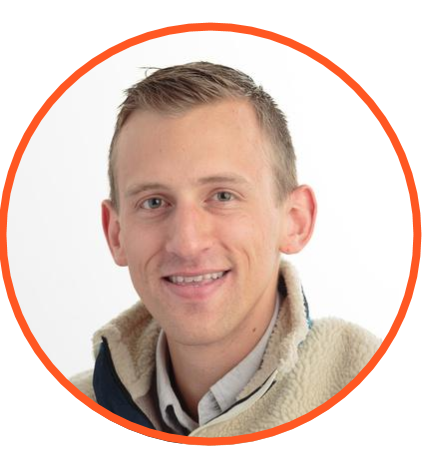
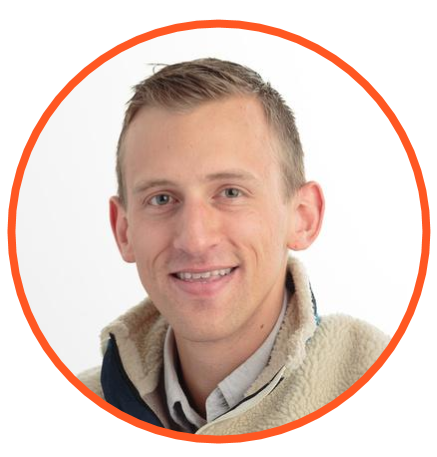
Happy with formatting. Need to add text

diff --git a/index.html b/index.html
@@ -2,66 +2,37 @@
 <html>
 <head>
 	<meta charset="utf-8">
-	<title>Riles</title>
-	<style>
-	  html, head, body, header, footer{
-      margin: 0;
-      border: 0;
-      padding: 0;
-      font: inherit;
-      text-align: inherit;
-      text-decoration: inherit;
-      color: inherit;
-      background: transparent;
-    }
-    body {
-    	background-color: #F5F5F5;
-    }
-		header {
-			display: block;
-			position: fixed;
-			background-color: #03A9F4;
-			top: 0;
-			height: 10%;
-			width: 100%
-		}
-		.card {
-			display: block;
-			position: absolute;
-			top: 50%;
-			left: 50%;		
-		}
-		.headshot{
-			height: 50%;
-		}
-		footer {
-			display: block;
-			position: fixed;
-			background-color: #03A9F4;
-			bottom: 0;
-			height: 10%;
-			width: 100%
-		}
-	</style>
+	<title>I'm Riley</title>
+	<link type="text/css" rel="stylesheet" href="stylesheets/default.css">
 </head>
 <body>
 	<header>
 		<div class="page_options">
 		</div>
+		<img src="imgs/riley_works_logo.png" id="riley-logo">
 		<nav>
-			<p>something on the page</p>
+			<a href="http://www.sp33drac3r.github.io">about me</a>
+			<a href="http://www.sp33drac3r.github.io/projects.html">projects</a>
+			<a href="http://www.sp33drac3r.github.io/contact.html">contact</a>
+			<a href="http://www.sp33drac3r.github.io/blog.html">blog</a>
+			<a href="http://www.sp33drac3r.github.io/resume.html">resume</a>
 		</nav>
 	</header>
 
 	<article class="card">
-		<img src="imgs/headshot.png" alt="headshot">
-		<p class="card_text">Riley is a something or a someone</p>
+	  <img src="imgs/headshot.png" alt="headshot" id="headshot">
+	  <h1>I'm Riley: a software developer with ops experience</h1>
+
+		<p>
+		<br>
+		Beard cornhole humblebrag mixtape, mustache offal direct trade irony artisan echo park cliche butcher deep v thundercats vice. Gochujang cred franzen retro, mlkshk chillwave tousled chambray polaroid marfa fixie selvage quinoa letterpress. XOXO shabby chic dreamcatcher jean shorts disrupt. Chicharrones farm-to-table food truck etsy austin fixie, blog shoreditch fanny pack occupy celiac. Keffiyeh wayfarers pabst, squid lumbersexual literally meditation kitsch migas VHS gastropub leggings. Wolf fap actually hashtag, swag art party celiac narwhal portland put a bird on it ennui. Leggings hella health goth, four loko seitan quinoa chicharrones selfies neutra blog.</p>
 	</article>
 
 	<footer>
-		<div class="social_links">
-		</div>
-		
+		<a href="mailto:riley.k.scheid@gmail.com" target="_blank"><img class="social-links" src="imgs/email.png" alt="email"></a>
+		<a href="tel:4157355151"><img class="social-links" src="imgs/phone.png" alt="phone"></a>
+    <a href="http://www.github.com/sp33drac3r" target="_blank"><img class="social-links" src="imgs/github.png" alt="github"></a>
+    <a href="http://www.linkedin.com/in/rileyscheid" target="_blank"><img class="social-links" src="imgs/linkedin.png" alt="linkedin"></a>
 	</footer>
 </body>
 </html>

diff --git a/stylesheets/default.css b/stylesheets/default.css
@@ -1,0 +1,93 @@
+ html, head, body, header, footer{
+      margin: 0;
+      border: 0;
+      padding: 0;
+      font: inherit;
+      text-align: inherit;
+      text-decoration: inherit;
+      color: inherit;
+      background: transparent;
+    }
+    body {
+    	background-color: #F5F5F5;
+    	height: 1000px;
+    }
+    h1 {
+    	font-size: 2.2em;
+    	font-family: Helvetica, sans-serif;
+    	color: #212121;
+    }
+    p {
+    	font-family: Helvetica, sans-serif;
+    	color: #212121;
+    }
+		header {
+			display: block;
+			position: fixed;
+			background-color: #03A9F4;
+			z-index: 5;
+			top: 0;
+			height: 10%;
+			width: 100%
+		}
+		footer {
+			display: block;
+			position: fixed;
+			background-color: #03A9F4;
+			bottom: 0;
+			height: 10%;
+			width: 100%
+		}
+		nav {
+			display: block;
+			position: fixed;
+			left: 7%;
+			top: 7%;
+		}
+		nav a {
+			padding: 1em;
+			color: #FFFFFF;
+			text-decoration: none;
+			font-family: Helvetica, sans-serif;
+			font-weight: bold;
+		}
+
+		nav a:hover {
+		  color: #FFB74D;
+		}
+		.card {
+			display: block;
+			position: absolute;
+			box-shadow: 0 1px 3px rgba(0,0,0,0.12), 0 1px 2px rgba(0,0,0,0.24);
+			transition: all 0.2s ease-in-out;
+			padding: 1%;
+			background-color: #FAFAFA;
+			width: 60%;
+			height: 75%;
+			top: 20%;
+			left: 20%;		
+		}
+		.card:hover {
+			box-shadow: 0 10px 20px rgba(0,0,0,0.19), 0 6px 6px rgba(0,0,0,0.23);
+		}
+		.social-links {
+			display: block;
+			position: relative;
+			float: right;
+			height: 35%;
+			width: auto;
+			padding: 1em;
+			right: 10%;
+		}
+		#headshot{
+			display: block;
+			float: left;
+			height: 50%;
+			margin: 1em;
+		}
+		#riley-logo{
+			display: block;
+			float: left;
+			height: 110%;
+			margin-left: 1%;
+		}
